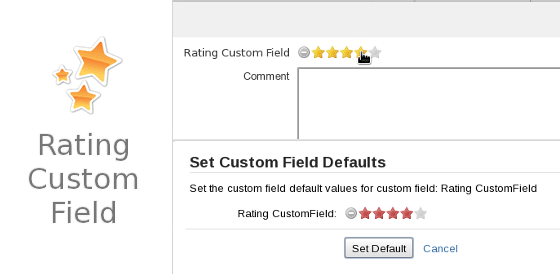
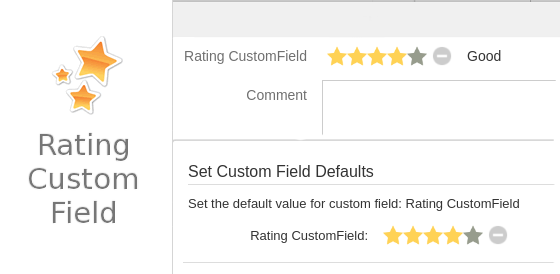
add screnshots

diff --git a/src/main/resources/css/rating-customfield.css b/src/main/resources/css/rating-customfield.css
@@ -5,7 +5,6 @@
   float: left; }
   .slie-rating-field .slie-rating-edit {
     overflow: hidden;
-    box-shadow: 0 0 0 1px #ccc;
     border-radius: 3px;
     padding: 5px;
     display: inline-block;
@@ -46,7 +45,8 @@
     min-height: 24px; }
     .type-rating-custom-field.editable-field.active form.aui .slie-rating-field .slie-rating-edit {
       padding: 2px 5px;
-      border-bottom-right-radius: 0; }
+      border-bottom-right-radius: 0;
+      box-shadow: 0 0 0 1px #ccc; }
     .type-rating-custom-field.editable-field.active form.aui .slie-rating-field .slie-rating-tip {
       position: absolute;
       display: inline-block;

diff --git a/src/main/resources/css/rating-customfield.scss b/src/main/resources/css/rating-customfield.scss
@@ -6,7 +6,6 @@
 
   .slie-rating-edit {
     overflow: hidden;
-    box-shadow: 0 0 0 1px #ccc;
     border-radius: 3px;
     padding: 5px;
     display: inline-block;
@@ -70,6 +69,7 @@
         .slie-rating-edit {
           padding: 2px 5px;
           border-bottom-right-radius: 0;
+          box-shadow: 0 0 0 1px #ccc;
         }
 
         .slie-rating-tip {

diff --git a/src/main/java/ru/slie/jira/plugins/customfields/searchers/RatingSearcher.java b/src/main/java/ru/slie/jira/plugins/customfields/searchers/RatingSearcher.java
@@ -12,6 +12,7 @@ import com.atlassian.jira.util.JiraComponentLocator;
  * To change this template use File | Settings | File Templates.
  */
 public class RatingSearcher extends SelectSearcher {
+    // TODO: implements > and < operators
     public RatingSearcher() {
         super(JiraComponentFactory.getInstance(), new JiraComponentLocator());
     }
